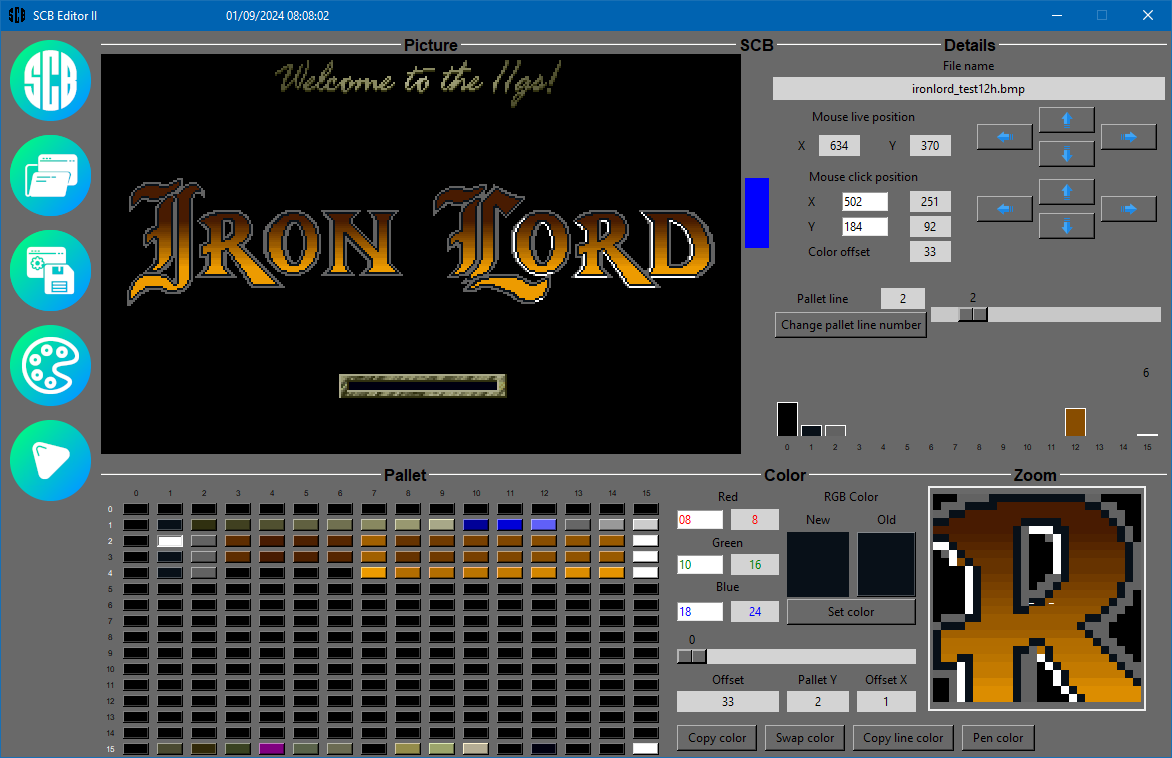
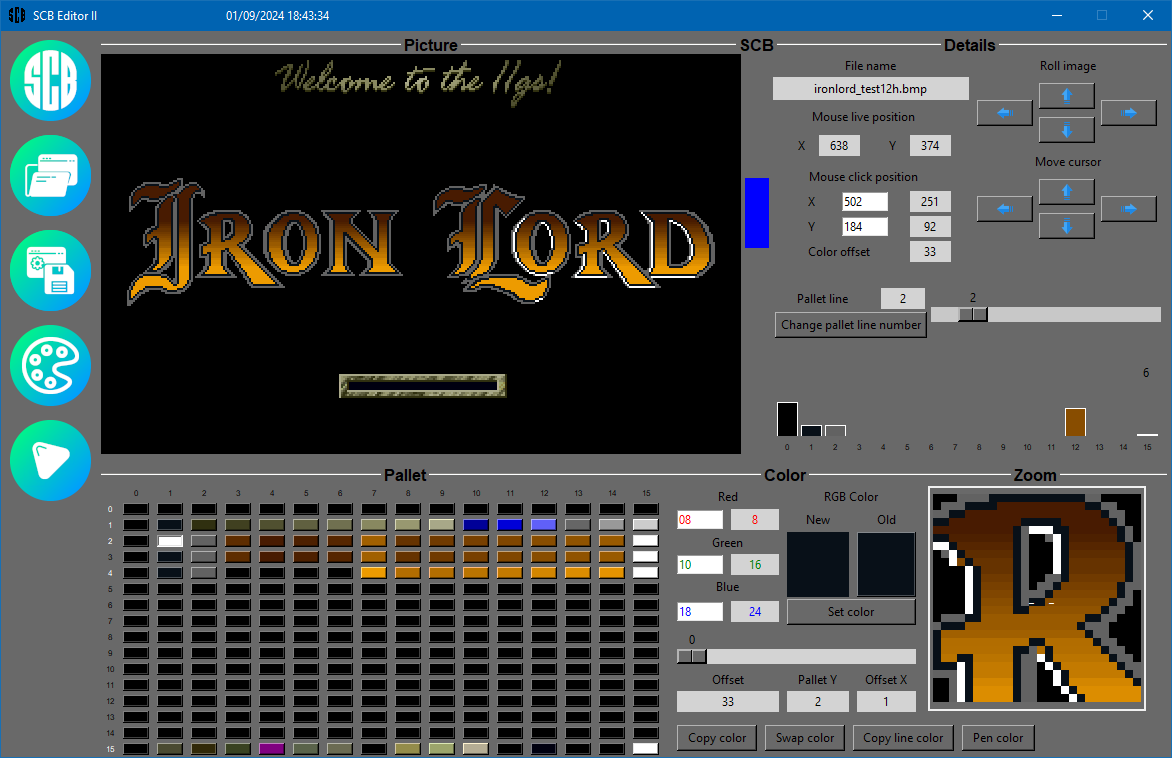
Add label roll, move on top of blue arrows

Changed region(s): [[0.7065, 0.0607, 1.0, 0.2427], [0.2457, 0.0, 0.2765, 0.0303]]

diff --git a/src/my_main_window_image.py b/src/my_main_window_image.py
@@ -641,7 +641,7 @@ class MyMainWindowImage:
         i_width = i_pic_frame_width - ( 640 + 24 + 10)
 
         a_filename_frame = Frame( a_pic_frame, padx=0, pady=0, background=constant.BACKGROUD_COLOR_UI)     # background='darkgray' or 'light grey'
-        a_filename_frame.place( x=672, y=21, width=i_width, height=48)
+        a_filename_frame.place( x=672, y=21, width=int(i_width/2), height=48)
         i_index_base_block = 0
         a_pic_sep_lbl_h2 = Label( a_filename_frame, text="File name", background=constant.BACKGROUD_COLOR_UI)
         a_pic_sep_lbl_h2.pack( fill="both", ipady=1)
@@ -664,8 +664,13 @@ class MyMainWindowImage:
         self.a_mouse_live_pos_y = Label( a_mouse_live_frame, text="   ", width=constant.DEFAULT_BUTTON_WIDTH-2, height=1, background='light grey', foreground='black')
         self.a_mouse_live_pos_y.grid( row=i_index_base_block, column=4, padx=4, pady=4, sticky='ew')
 
+        a_roll_title_frame = Frame( a_pic_frame, padx=0, pady=0, background=constant.BACKGROUD_COLOR_UI)     # background='darkgray' or 'light grey'
+        a_roll_title_frame.place( x=672+int(i_width/2)+2, y=24, width=int(i_width/2)-2, height=16)
+        a_pic_sep_lbl_h7 = Label( a_roll_title_frame, text="Roll image", background=constant.BACKGROUD_COLOR_UI)
+        a_pic_sep_lbl_h7.pack( fill="both", ipady=1)
+
         a_roll_frame = Frame( a_pic_frame, padx=0, pady=0, background=constant.BACKGROUD_COLOR_UI)     # background='darkgray' or 'light grey'
-        a_roll_frame.place( x=672+int(i_width/2)+2, y=21+48, width=int(i_width/2)-2, height=70)
+        a_roll_frame.place( x=672+int(i_width/2)+2, y=21+24, width=int(i_width/2)-2, height=70+12)
         if self.s_platform == "Darwin":
             self.a_roll_up_btn = Button( a_roll_frame, image=self.c_the_icons.get_up_arrow_photo(), command=self.__mwi_roll_up_clicked, width=50, height=20, relief='raised', highlightbackground='light grey', repeatdelay=400, repeatinterval=100)
         elif self.s_platform == "Linux":
@@ -724,6 +729,11 @@ class MyMainWindowImage:
         a_pic_sep_lbl_h5.grid( row=i_index_base_block, column=1, columnspan=3, padx=4, pady=2, sticky='ew')
         self.a_color_lbl = Label( a_mouse_click_frame, text="   ", background='light grey', foreground='black')
         self.a_color_lbl.grid( row=i_index_base_block, column=4, columnspan=1, padx=4, pady=2, sticky='ew')
+
+        a_arrow_title_frame = Frame( a_pic_frame, padx=0, pady=0, background=constant.BACKGROUD_COLOR_UI)     # background='darkgray' or 'light grey'
+        a_arrow_title_frame.place( x=672+int(i_width/2)+2, y=21+48+51, width=int(i_width/2)-2, height=16)
+        a_pic_sep_lbl_h8 = Label( a_arrow_title_frame, text="Move cursor", background=constant.BACKGROUD_COLOR_UI)
+        a_pic_sep_lbl_h8.pack( fill="both", ipady=1)
 
         a_arrow_frame = Frame( a_pic_frame, padx=0, pady=0, background=constant.BACKGROUD_COLOR_UI)     # background='darkgray' or 'light grey'
         a_arrow_frame.place( x=672+int(i_width/2)+2, y=21+48+72, width=int(i_width/2)-2, height=70)

diff --git a/scbeditor2.py b/scbeditor2.py
@@ -73,9 +73,9 @@ __credits__ = ["Frédéric Mure",
 __license__ = "GNU GPLv3"
 s_check_platform = platform.system()
 if s_check_platform == 'Linux':
-    __version__ = "2.9.22-119"
+    __version__ = "2.9.23-121"
 else:
-    __version__ = "2.9.22.119"
+    __version__ = "2.9.23.121"
 __maintainer__ = "Renaud Malaval"
 __contact__ = "renaud.malaval@free.fr"
 __status__ = "Production"
